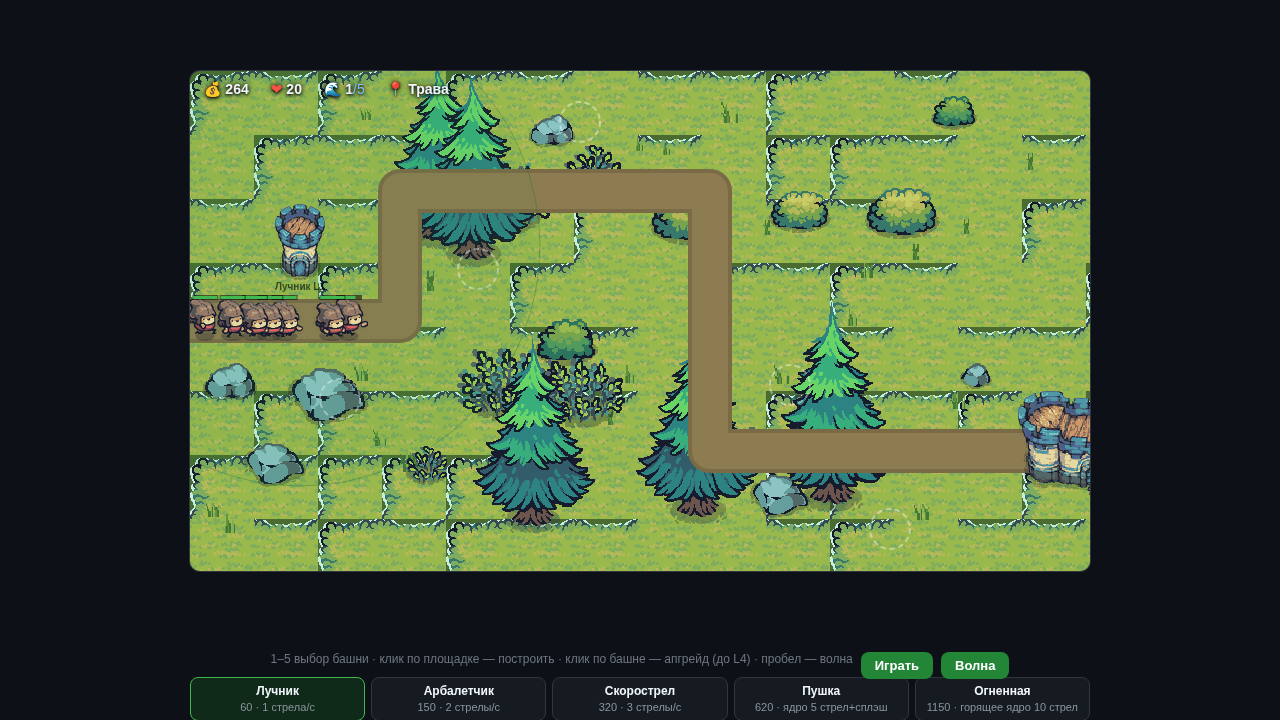
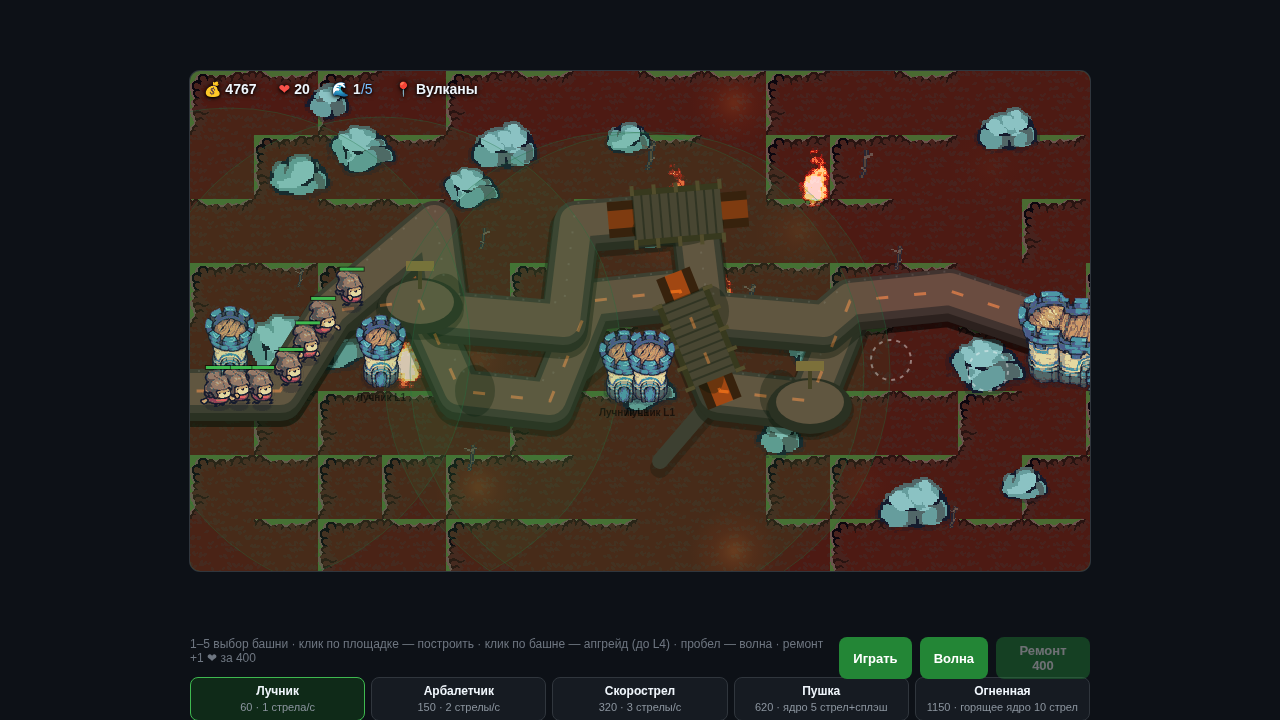
roads 2.0: winding dual routes, forks/rejoins, bridges with streams, narrowings, pseudo-3D; waveBase 520 keeps 19/17/15/12/7

diff --git a/index.html b/index.html
@@ -23,16 +23,26 @@ button:hover{background:#2ea043}
 "use strict";
 // ============ DATA (BALANCE.md 14.11.2026) ============
 const POLYGONS=[
- {id:"trava",   name:"Трава",   hpk:1.00, spdk:1.00, gold:320, path:[[-40,250],[210,250],[210,120],[520,120],[520,380],[940,380]],
-  slots:[[110,175],[150,322],[288,192],[390,45],[600,308],[700,452]]},
- {id:"les",     name:"Лес",     hpk:1.30, spdk:1.12, gold:320, path:[[-40,120],[300,120],[300,380],[620,380],[620,140],[940,140]],
-  slots:[[120,200],[220,300],[380,200],[470,440],[700,220],[800,420]]},
- {id:"pustynya",name:"Пустыня", hpk:1.70, spdk:1.14, gold:340, path:[[-40,380],[250,380],[250,100],[560,100],[560,300],[940,300]],
-  slots:[[120,300],[330,200],[340,440],[640,180],[640,380],[780,200]]},
- {id:"ostrova", name:"Острова", hpk:2.15, spdk:1.18, gold:360, path:[[-40,200],[200,200],[200,400],[480,400],[480,150],[940,150]],
-  slots:[[110,120],[280,280],[280,460],[560,320],[560,60],[760,230]]},
- {id:"vulkany", name:"Вулканы", hpk:2.70, spdk:1.22, gold:380, path:[[-40,320],[180,320],[180,120],[440,120],[440,400],[940,400]],
-  slots:[[100,230],[260,200],[260,440],[520,200],[620,320],[780,320]]},
+ {id:"trava",   name:"Трава",   hpk:1.00, spdk:1.00, gold:320,
+  path:[[-40,260],[90,260],[150,200],[240,185],[280,270],[370,290],[410,195],[500,175],[545,270],[640,290],[690,200],[790,190],[940,235]],
+  slots:[[110,180],[230,250],[340,220],[470,240],[600,220],[760,260]],
+  road:{base:"#6f6240",top:"#9a865a",edge:"#57503a",plank:"#8a6f45"},narrow:[0.34,0.68],bridgeAt:0.52},
+ {id:"les",     name:"Лес",     hpk:1.30, spdk:1.12, gold:320,
+  path:[[-40,120],[120,120],[180,190],[260,200],[300,300],[420,310],[460,210],[560,190],[600,300],[700,310],[740,200],[830,180],[940,200]],
+  slots:[[120,190],[260,260],[380,240],[520,260],[640,240],[790,250]],
+  road:{base:"#5f5138",top:"#84744e",edge:"#4a4030",plank:"#77593a"},narrow:[0.30,0.66],bridgeAt:0.47},
+ {id:"pustynya",name:"Пустыня", hpk:1.70, spdk:1.14, gold:340,
+  path:[[-40,380],[110,380],[170,300],[260,290],[300,380],[400,390],[440,290],[540,280],[580,370],[690,380],[730,280],[830,270],[940,300]],
+  slots:[[120,310],[270,350],[380,320],[510,350],[650,310],[800,340]],
+  road:{base:"#8f7448",top:"#c2a068",edge:"#6e5a38",plank:"#9a7a4a"},narrow:[0.36,0.70],bridgeAt:0.55},
+ {id:"ostrova", name:"Острова", hpk:2.15, spdk:1.18, gold:360,
+  path:[[-40,200],[100,200],[150,280],[250,290],[300,200],[400,190],[450,280],[550,290],[600,200],[700,190],[750,280],[840,270],[940,220]],
+  slots:[[110,260],[260,230],[380,250],[530,230],[650,250],[790,220]],
+  road:{base:"#7a6c48",top:"#ab9a6a",edge:"#5c5340",plank:"#7d6242"},narrow:[0.32,0.64],bridgeAt:0.50},
+ {id:"vulkany", name:"Вулканы", hpk:2.70, spdk:1.22, gold:380,
+  path:[[-40,320],[90,320],[140,240],[230,230],[270,320],[360,330],[400,230],[490,220],[530,320],[620,330],[660,230],[760,220],[940,280]],
+  slots:[[110,250],[240,290],[370,260],[500,290],[620,260],[760,290]],
+  road:{base:"#41332f",top:"#6a4c40",edge:"#2c211e",plank:"#4e3a30"},narrow:[0.33,0.67],bridgeAt:0.58},
 ];
 const TOWERS=[
  {name:"Лучник",    cost:60,   rate:1.0, dmg:10,  splash:0,  burn:0,  up:[50,110,200],    spr:"t1", desc:"1 стрела/с"},
@@ -45,7 +55,7 @@ const WAVE_DEF=[{n:8,hp:1.00,spd:1.00},{n:10,hp:1.55,spd:1.05},{n:12,hp:2.25,spd
 const BASE_HP=44, BASE_SPD=36, RANGE=240, LIVES0=20;
 // Правка баланса 15.11.2026 (запрос @Dr_Chernikov): доход растёт как sqrt(hpk), а не линейно;
 // скорость врагов компенсирует длину пути, чтобы время под обстрелом падало монотонно.
-const TUNE={incExp:0.50, waveBase:400, waveK:0.45, repairCost:400};
+const TUNE={incExp:0.50, waveBase:520, waveK:0.45, repairCost:400};
 const UNITS=["pawn","arch","warr","lanc","pawn"];
 
 // ============ canvas ============
@@ -142,15 +152,68 @@ function drawDecor(g,biome,t){
 
 // ============ state ============
 const S={screen:"menu",pi:0,gold:0,lives:LIVES0,wave:0,waveActive:false,enemies:[],towers:[],shots:[],parts:[],spawnQueue:[],spawnTimer:0,betweenTimer:0,time:0,selTower:0,msg:"",finished:{}};
-let PATH=[],SEG=[],TOTAL=0;
+let ROUTES=[],RSEG=[],RTOT=[],DECOYS=[],FORK=null,REJOIN=null;
+function buildAlt(main){
+  // Ветвь: повторяет главную, середина смещена перпендикулярно — петля с fork/rejoin.
+  const n=main.length, alt=main.map(p=>({x:p[0],y:p[1]}));
+  const side=(main[3].y<main[5].y)?1:-1;
+  for(let k=3;k<=n-4;k++){alt[k]={x:main[k][0]+(k%2?14:-14),y:main[k][1]+side*78};
+    alt[k].x=Math.max(30,Math.min(870,alt[k].x));alt[k].y=Math.max(50,Math.min(450,alt[k].y));}
+  return alt;
+}
+function bakeRoute(pts){
+  const P=pts.map(p=>({x:p.x!==undefined?p.x:p[0],y:p.y!==undefined?p.y:p[1]}));
+  const seg=[];let tot=0;
+  for(let k=0;k<P.length-1;k++){const a=P[k],b=P[k+1];const len=Math.hypot(b.x-a.x,b.y-a.y);seg.push({a,b,len,start:tot});tot+=len;}
+  return{P,seg,tot};
+}
 function setPolygon(i){
   S.pi=i; const P=POLYGONS[i];
-  PATH=P.path.map(p=>({x:p[0],y:p[1]}));
-  SEG=[];TOTAL=0;
-  for(let k=0;k<PATH.length-1;k++){const a=PATH[k],b=PATH[k+1];const len=Math.hypot(b.x-a.x,b.y-a.y);SEG.push({a,b,len,start:TOTAL});TOTAL+=len;}
+  const main=P.path, altP=buildAlt(main);
+  ROUTES=[main.map(p=>({x:p[0],y:p[1]})),altP];
+  RSEG=[];RTOT=[];
+  for(const r of ROUTES){const b=bakeRoute(r);RSEG.push(b.seg);RTOT.push(b.tot);}
+  // fork/rejoin: точки расхождения и схождения
+  FORK=ROUTES[0][3];REJOIN=ROUTES[0][ROUTES[0].length-4];
+  // площадки: обе стороны проверяются, выбирается та, что дальше от ОБЕИХ дорог; отступ растёт пока <38px
+  (function(){
+    function minDist(x,y){
+      let best=1e9;
+      for(let ri=0;ri<2;ri++){const tot=RTOT[ri];
+        for(let d=0;d<=tot;d+=12){const p=posAt(d,ri);const dd=Math.hypot(p.x-x,p.y-y);if(dd<best)best=dd;}}
+      return best;
+    }
+    const fracs=[0.10,0.27,0.43,0.59,0.75,0.90],out=[];
+    for(let k=0;k<fracs.length;k++){
+      const f=fracs[k],tot=RTOT[0];
+      const p0=posAt(f*tot,0),p1=posAt(Math.min(f*tot+12,tot),0);
+      let dx=p1.x-p0.x,dy=p1.y-p0.y;const L=Math.hypot(dx,dy)||1;dx/=L;dy/=L;
+      let best=null,bd=-1;
+      for(const side of (k%2?[1,-1]:[-1,1])){
+        for(const off of [58,80,102]){
+          const sx=Math.max(40,Math.min(860,Math.round(p0.x+(-dy*side)*off)));
+          const sy=Math.max(50,Math.min(450,Math.round(p0.y+(dx*side)*off)));
+          const dd=minDist(sx,sy);
+          if(dd>bd){bd=dd;best=[sx,sy];}
+          if(dd>=38)break;
+        }
+        if(bd>=38)break;
+      }
+      out.push(best);
+    }
+    P.slots=out;
+  })();
+  // декоративные тупики: 2 коротких ответвления
+  DECOYS=[];
+  const d1=ROUTES[0][5],d2=ROUTES[0][8];
+  DECOYS.push([d1,{x:d1.x+70,y:d1.y-60}]);
+  DECOYS.push([d2,{x:d2.x-60,y:d2.y+70}]);
   S.gold=P.gold;S.lives=LIVES0;S.wave=0;S.waveActive=false;S.enemies=[];S.towers=[];S.shots=[];S.parts=[];S.spawnQueue=[];S.betweenTimer=0;S.selTower=0;
 }
-function posAt(d){d=Math.max(0,Math.min(d,TOTAL));for(const s of SEG){if(d<=s.start+s.len){const t=s.len?(d-s.start)/s.len:0;return{x:s.a.x+(s.b.x-s.a.x)*t,y:s.a.y+(s.b.y-s.a.y)*t};}}const e=PATH[PATH.length-1];return{x:e.x,y:e.y};}
+function posAt(d,ri){ri=ri||0;const seg=RSEG[ri],tot=RTOT[ri];if(!seg)return{x:0,y:0};
+  d=Math.max(0,Math.min(d,tot));for(const s of seg){if(d<=s.start+s.len){const t=s.len?(d-s.start)/s.len:0;return{x:s.a.x+(s.b.x-s.a.x)*t,y:s.a.y+(s.b.y-s.a.y)*t};}}
+  const e=ROUTES[ri][ROUTES[ri].length-1];return{x:e.x,y:e.y};}
+function routeLen(ri){return RTOT[ri||0]||1;}
 function waveComp(wi){
   const P=POLYGONS[S.pi],D=WAVE_DEF[wi];
   const hp=Math.round(BASE_HP*P.hpk*D.hp), spd=BASE_SPD*P.spdk*D.spd;
@@ -161,9 +224,9 @@ function startWave(){
   if(S.waveActive||S.wave>=5||S.screen!=="game")return;
   const c=waveComp(S.wave); S.wave++;
   S.waveActive=true;S.spawnQueue=[];let t=0;
-  for(let i=0;i<c.n;i++){S.spawnQueue.push({hp:c.hp,maxHp:c.hp,spd:c.spd,unit:c.unit,boss:0,delay:t});t+=0.65;}
-  S.spawnQueue.push({hp:c.miniHp,maxHp:c.miniHp,spd:c.spd*0.85,unit:c.unit,boss:1,delay:t+0.5});
-  if(S.wave===5){S.spawnQueue.push({hp:c.bossHp,maxHp:c.bossHp,spd:c.spd*0.70,unit:"warr",boss:2,delay:t+1.5});}
+  for(let i=0;i<c.n;i++){S.spawnQueue.push({hp:c.hp,maxHp:c.hp,spd:c.spd,unit:c.unit,boss:0,delay:t,ri:i%2});t+=0.65;}
+  S.spawnQueue.push({hp:c.miniHp,maxHp:c.miniHp,spd:c.spd*0.85,unit:c.unit,boss:1,delay:t+0.5,ri:0});
+  if(S.wave===5){S.spawnQueue.push({hp:c.bossHp,maxHp:c.bossHp,spd:c.spd*0.70,unit:"warr",boss:2,delay:t+1.5,ri:1});}
   S.spawnTimer=0;
 }
 function towerAt(x,y){let best=null,bd=26;for(const t of S.towers){const d=Math.hypot(t.x-x,t.y-y);if(d<bd){bd=d;best=t;}}return best;}
@@ -204,7 +267,7 @@ function update(dt){
   if(S.waveActive&&S.spawnQueue.length){S.spawnTimer+=dt;
     while(S.spawnQueue.length&&S.spawnTimer>=S.spawnQueue[0].delay){
       const c=S.spawnQueue.shift();
-      S.enemies.push({d:0,hp:c.hp,maxHp:c.hp,unit:c.unit,spd:c.spd*(0.9+Math.random()*0.2),anim:Math.random()*2,dead:false,boss:c.boss,burnT:0,burnDps:0,scale:c.boss===2?2.2:(c.boss===1?1.5:1)});
+      S.enemies.push({d:0,ri:c.ri||0,hp:c.hp,maxHp:c.hp,unit:c.unit,spd:c.spd*(0.9+Math.random()*0.2),anim:Math.random()*2,dead:false,boss:c.boss,burnT:0,burnDps:0,scale:c.boss===2?2.2:(c.boss===1?1.5:1)});
     }}
   for(const en of S.enemies){
     if(en.dead)continue;
@@ -212,21 +275,22 @@ function update(dt){
     en.d+=en.spd*dt;en.anim+=dt;
     if(en.hp<=0){en.dead=true;
       let rw=Math.round(en.maxHp*0.10*Math.pow(POLYGONS[S.pi].hpk,-TUNE.incExp));if(en.boss>0)rw=Math.round(rw*1.8);S.gold+=rw;
-      for(let i=0;i<(en.boss?14:5);i++)S.parts.push({x:posAt(en.d).x,y:posAt(en.d).y,vx:(Math.random()-0.5)*90,vy:-40-Math.random()*60,life:0.5});
+      const dp=posAt(en.d,en.ri);
+      for(let i=0;i<(en.boss?14:5);i++)S.parts.push({x:dp.x,y:dp.y,vx:(Math.random()-0.5)*90,vy:-40-Math.random()*60,life:0.5});
       continue;}
-    if(en.d>=TOTAL){en.dead=true;S.lives--;}
+    if(en.d>=routeLen(en.ri)){en.dead=true;S.lives--;}
   }
   for(const t of S.towers){
     t.timer-=dt; if(t.timer>0)continue;
     let target=null;
-    for(const en of S.enemies){if(en.dead)continue;const p=posAt(en.d);
+    for(const en of S.enemies){if(en.dead)continue;const p=posAt(en.d,en.ri);
       if(Math.hypot(p.x-t.x,p.y-t.y)>t.range)continue;
-      if(!target||en.d>target.d)target=en;}
+      if(!target||(en.d/routeLen(en.ri))>(target.d/routeLen(target.ri)))target=en;}
     if(target){const def=TOWERS[t.ti];t.timer=1/Math.max(0.2,def.rate*(1+(t.level-1)*0.06));
-      const p=posAt(target.d);t.angle=Math.atan2(p.y-t.y,p.x-t.x);
+      const p=posAt(target.d,target.ri);t.angle=Math.atan2(p.y-t.y,p.x-t.x);
       const dmg=t.dmg*(t.level>1?1:1);
       if(t.splash>0){const sp=t.splash;
-        for(const en of S.enemies){if(en.dead)continue;const q=posAt(en.d);
+        for(const en of S.enemies){if(en.dead)continue;const q=posAt(en.d,en.ri);
           if(Math.hypot(q.x-p.x,q.y-p.y)<=sp)damage(en,dmg,t.burn);}
         S.parts.push({x:p.x,y:p.y,vx:0,vy:0,life:0.3,boom:sp});
       }else{damage(target,dmg,t.burn);S.shots.push({x1:t.x,y1:t.y-30,x2:p.x,y2:p.y-20,a:t.angle,life:0.14});}
@@ -251,12 +315,99 @@ function update(dt){
 }
 
 // ============ draw ============
-function drawRoad(){
-  ctx.lineJoin="round";ctx.lineCap="round";
-  ctx.strokeStyle="#7a6a45";ctx.lineWidth=44;ctx.beginPath();ctx.moveTo(PATH[0].x,PATH[0].y);
-  for(let i=1;i<PATH.length;i++)ctx.lineTo(PATH[i].x,PATH[i].y);ctx.stroke();
-  ctx.strokeStyle="#8d7b52";ctx.lineWidth=36;ctx.beginPath();ctx.moveTo(PATH[0].x,PATH[0].y);
-  for(let i=1;i<PATH.length;i++)ctx.lineTo(PATH[i].x,PATH[i].y);ctx.stroke();
+function widthAt(frac,P){
+  // сужения в заданных точках: 44 -> 26 с плавным переходом
+  let w=44;
+  for(const n of (P.narrow||[])){const dd=Math.abs(frac-n);if(dd<0.06){const k=Math.cos(dd/0.06*Math.PI/2);w=Math.min(w,44-18*k);}}
+  return w;
+}
+function strokeRoute(pts,color,width,ox,oy,dash){
+  ctx.save();ctx.lineJoin="round";ctx.lineCap="round";
+  if(dash)ctx.setLineDash(dash);
+  ctx.strokeStyle=color;ctx.lineWidth=width;ctx.beginPath();
+  ctx.moveTo(pts[0].x+(ox||0),pts[0].y+(oy||0));
+  for(let i=1;i<pts.length;i++)ctx.lineTo(pts[i].x+(ox||0),pts[i].y+(oy||0));
+  ctx.stroke();ctx.restore();
+}
+function drawRoads(P,t){
+  // 1. декоративные тупики (тонкие тропы в никуда)
+  for(const dec of DECOYS){strokeRoute(dec,"rgba(0,0,0,0.25)",20,0,7);strokeRoute(dec,P.road.base,16,0,0);}
+  for(let ri=0;ri<ROUTES.length;ri++){
+    const pts=ROUTES[ri],tot=RTOT[ri];
+    // 2. тень-насыпь: дорога как часть ландшафта, лежит на подушке
+    strokeRoute(pts,"rgba(0,0,0,0.35)",54,0,9);
+    // 3. боковая стенка (псевдо-3D: торец вниз)
+    strokeRoute(pts,P.road.edge,48,0,6);
+    // 4. основное полотно
+    strokeRoute(pts,P.road.base,44,0,0);
+    // 5. верхняя плоскость светлее
+    strokeRoute(pts,P.road.top,32,0,-2);
+    // 6. сужения: тёмные горловины
+    for(const n of (P.narrow||[])){
+      const p=posAt(n*tot,ri);
+      ctx.save();ctx.fillStyle="rgba(0,0,0,0.30)";
+      ctx.beginPath();ctx.ellipse(p.x,p.y-2,20,26,0,0,Math.PI*2);ctx.fill();ctx.restore();
+      strokeRoute([pts[0]],P.road.top,1,0,0);
+    }
+    // 7. кромка: пунктир камней по краям
+    ctx.save();ctx.lineJoin="round";
+    ctx.strokeStyle="rgba(255,255,255,0.10)";ctx.lineWidth=2;ctx.setLineDash([2,14]);
+    ctx.beginPath();ctx.moveTo(pts[0].x,pts[0].y-20);
+    for(let i=1;i<pts.length;i++)ctx.lineTo(pts[i].x,pts[i].y-20);
+    ctx.stroke();ctx.restore();
+  }
+  // 8. перекрёстки: площади в fork/rejoin
+  for(const c of [FORK,REJOIN]){
+    if(!c)continue;
+    ctx.save();
+    ctx.fillStyle="rgba(0,0,0,0.30)";ctx.beginPath();ctx.ellipse(c.x,c.y+9,44,30,0,0,Math.PI*2);ctx.fill();
+    ctx.fillStyle=P.road.edge;ctx.beginPath();ctx.ellipse(c.x,c.y+5,42,28,0,0,Math.PI*2);ctx.fill();
+    ctx.fillStyle=P.road.top;ctx.beginPath();ctx.ellipse(c.x,c.y+1,34,22,0,0,Math.PI*2);ctx.fill();
+    // знак-указатель
+    ctx.fillStyle="#4a3520";ctx.fillRect(c.x-2,c.y-34,4,22);
+    ctx.fillStyle="#8a6a3a";ctx.fillRect(c.x-14,c.y-40,28,10);
+    ctx.restore();
+  }
+  // 9. мосты: настил + перила поперёк хода
+  for(let ri=0;ri<ROUTES.length;ri++){
+    const tot=RTOT[ri],P0=POLYGONS[S.pi];
+    const f=P0.bridgeAt||0.5, c=posAt(f*tot,ri), c2=posAt(f*tot+10,ri);
+    const ang=Math.atan2(c2.y-c.y,c2.x-c.x), nx=-Math.sin(ang), ny=Math.cos(ang);
+    ctx.save();
+    // русло под мостом: вода на островах, лава на вулканах, ручей иначе
+    ctx.translate(c.x,c.y);ctx.rotate(ang);
+    if(P0.id==="ostrova"){ctx.fillStyle="#2e6f8a";ctx.fillRect(-70,-16,140,32);
+      ctx.fillStyle="rgba(255,255,255,0.25)";ctx.fillRect(-70,-16,140,5);ctx.fillRect(-70,11,140,5);}
+    else if(P0.id==="vulkany"){ctx.fillStyle="#3a1005";ctx.fillRect(-70,-18,140,36);
+      ctx.save();ctx.globalCompositeOperation="lighter";
+      ctx.fillStyle="rgba(255,90,10,"+(0.5+0.2*Math.sin(t*3.1+ri))+")";ctx.fillRect(-70,-9,140,18);ctx.restore();}
+    else{ctx.fillStyle="rgba(30,60,40,0.55)";ctx.fillRect(-70,-13,140,26);
+      ctx.fillStyle="rgba(120,170,200,0.50)";ctx.fillRect(-70,-7,140,14);}
+    ctx.restore();
+    ctx.save();
+    // тень под мостом
+    ctx.fillStyle="rgba(0,0,0,0.35)";
+    ctx.beginPath();ctx.ellipse(c.x,c.y+12,46,20,ang,0,Math.PI*2);ctx.fill();
+    // настил
+    ctx.translate(c.x,c.y);ctx.rotate(ang);
+    ctx.fillStyle=P0.road.plank;ctx.fillRect(-44,-24,88,48);
+    ctx.strokeStyle="rgba(0,0,0,0.35)";ctx.lineWidth=2;
+    for(let x=-44;x<44;x+=9){ctx.beginPath();ctx.moveTo(x,-24);ctx.lineTo(x,24);ctx.stroke();}
+    // перила
+    ctx.fillStyle="#3a2a18";ctx.fillRect(-46,-28,92,6);ctx.fillRect(-46,22,92,6);
+    ctx.fillStyle="#5a4228";
+    for(let x=-44;x<=44;x+=22){ctx.fillRect(x-2,-32,4,10);ctx.fillRect(x-2,22,4,10);}
+    ctx.restore();
+  }
+  // 10. вулканы: светящиеся трещины вдоль полотна
+  if(P.id==="vulkany"){
+    ctx.save();ctx.globalCompositeOperation="lighter";
+    ctx.strokeStyle="rgba(255,110,20,"+(0.25+0.12*Math.sin(t*2.2))+")";ctx.lineWidth=3;ctx.setLineDash([12,26]);
+    ctx.lineDashOffset=-t*30;
+    ctx.beginPath();const pts=ROUTES[0];ctx.moveTo(pts[0].x,pts[0].y);
+    for(let i=1;i<pts.length;i++)ctx.lineTo(pts[i].x,pts[i].y);
+    ctx.stroke();ctx.restore();
+  }
 }
 function draw(){
   ctx.clearRect(0,0,W,H);
@@ -279,8 +430,8 @@ function draw(){
   }
   const P=POLYGONS[S.pi],biome=P.id;
   drawGround(ctx,biome,S.time);drawDecor(ctx,biome,S.time);
-  drawRoad();
-  const end=PATH[PATH.length-1];
+  drawRoads(P,S.time);
+  const end=ROUTES[0][ROUTES[0].length-1];
   spr("base",0,end.x-34,end.y+44,104,false);
   for(const s of P.slots){
     if(S.towers.some(t=>t.sx===s[0]&&t.sy===s[1]))continue;
@@ -302,7 +453,7 @@ function draw(){
     ctx.restore();
   }
   for(const en of S.enemies){
-    const p=posAt(en.d),ahead=posAt(Math.min(en.d+8,TOTAL));
+    const p=posAt(en.d,en.ri),ahead=posAt(Math.min(en.d+8,routeLen(en.ri)),en.ri);
     const flip=ahead.x<p.x-0.5,frame=Math.floor(en.anim*9);
     const h=44*en.scale;
     spr(en.unit,frame,p.x,p.y+20*h/44,h,flip);
